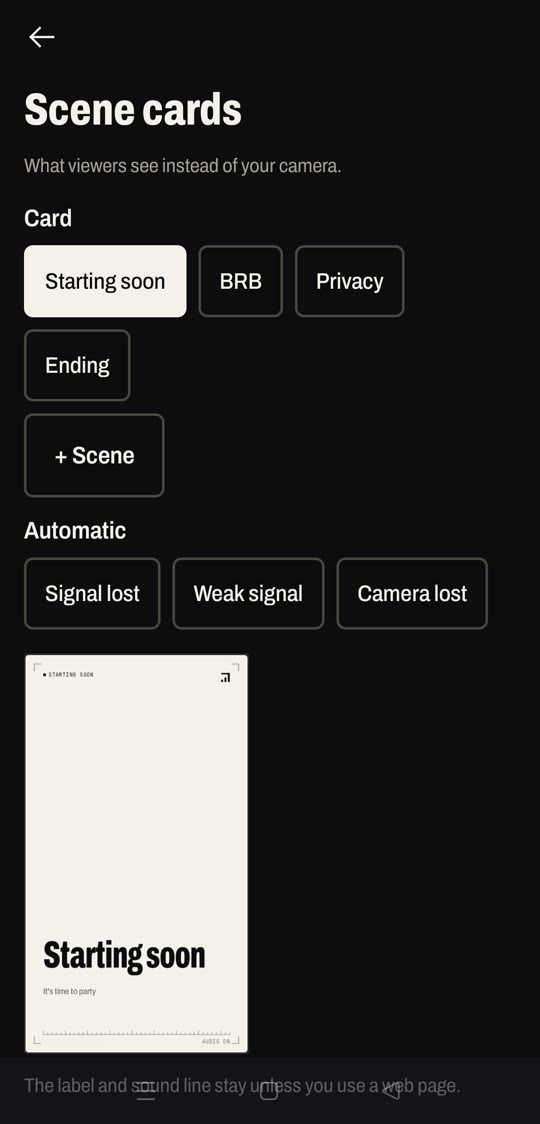
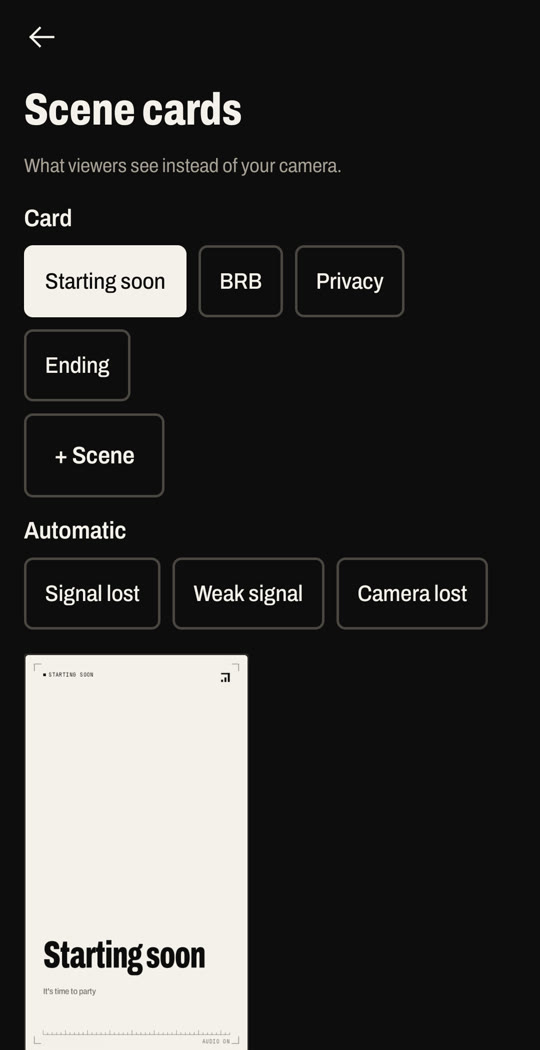
Feature list in three groups, with the screenshots beside their rows
Rows are grouped (before you go live, on stream, with your BRB server)
under plain names: "Your mic, your level" is Microphone, "Your mods" is
Mod commands and remote, and the Pocket's Labs chip is in its name. The
TTS copy is one row instead of two places, the ad-copy lines are
rewritten, the Microphone and Scene cards screenshots sit in their own
rows (cropped above the Android nav bar), and the dead-zone demo's
Signal lost thumbnail is big enough to read.

diff --git a/index.html b/index.html
@@ -146,23 +146,28 @@
 <section id="features" aria-labelledby="features-title">
   <div class="wrap">
     <h2 class="title" id="features-title">What's in the app</h2>
+    <h3 class="group">Before you go live</h3>
     <div class="rows">
-      <div class="row"><h3>Test streams</h3><p>Test is the default. It uses Twitch's bandwidth test, so nobody can watch a test on Twitch, not even you. A pre-flight check before you start, a preview before anything is sent, and a recap after: "We kept you live through 3 connection drops."</p></div>
-      <div class="row"><h3>Helper phones</h3><div><p>A spare phone in your pocket adds its mobile data. While you're live it joins your streaming phone's hotspot by itself, so there's nothing to type.</p><p class="tagline help">Helpers speak Moblin's Moblink protocol, so Moblin's helpers should work too. So far I've only tested it with Fullbars on both phones.</p></div></div>
-      <div class="row"><h3>DJI Pocket 3 <span class="tag dashed">Labs</span></h3><div><p>Fullbars starts the Pocket's stream over Bluetooth and takes it in over Wi‑Fi, so the Pocket works as a wireless camera on Android.</p><p class="tagline help">Unofficial: DJI doesn't support it, so the app asks you to confirm when you choose it in Settings › Camera. Other RTMP cameras work too.</p></div></div>
-      <div class="row"><h3>Scene cards</h3><div><p>Starting soon, BRB, Privacy and Ending, one tap away, up to four scenes of your own, plus automatic Signal lost, Weak signal and Camera lost cards. Your phone draws them, so they look the same with or without the server.</p><p class="tagline help">Make each one yours: your words in one of eight fonts, any colour, a picture, a still or GIF background, a layout and an accent. Add a countdown, a time-away counter, chat on the card, music under it, or a web page instead of the card.</p></div></div>
-      <div class="row"><h3>Alerts</h3><p>Follows, subs, gift subs, bits, raids and tips, drawn on stream with sound. Pick which ones show, where, how big and for how long, and give each kind your own words, picture, colours and sound. You feel each one land, and see who sent it.</p></div>
-      <div class="row"><h3>Viewer TTS</h3><p>A "Make me talk" channel points reward reads viewers' messages out on stream, and alerts can be said out loud too: "Thank you Sam for the 500 bits!" Spoken on your phone in one bright, dramatic voice, filtered for slurs and your own blocked words, and mods can <code>!skip</code>.</p></div>
-      <div class="row"><h3>Live captions</h3><p>What viewers hear you say, recognised on your phone and written on the stream. Nothing is sent anywhere, and they stop while you're muted. Android 13 or newer.</p></div>
-      <div class="row"><h3>Your mic, your level</h3><p>A live level meter, a sound check you can play back, a fader up to +30 dB, a limiter, and a switch for the phone's own auto level, which on some phones blows your voice out.</p></div>
-      <div class="row"><h3>Chat and overlays</h3><p>Twitch chat with emotes, on your screen and on stream. Chat read aloud into your earbuds. Text, image, or StreamElements and Streamlabs web overlays.</p></div>
-      <div class="row"><h3>Also stream to</h3><div><p>Your BRB server can send the same stream to Kick, YouTube or any RTMP server too, up to three at once. Your phone still uploads it only once.</p><p class="tagline help">Chat, alerts and mod commands stay on Twitch. Test streams never go anywhere else.</p></div></div>
-      <div class="row"><h3>Your mods</h3><p>Mod chat commands, and a web remote your mods can open to switch scenes for you, your own scenes included, or skip a TTS message.</p></div>
-      <div class="row"><h3>My OBS</h3><p>Streaming through OBS at home? The server can feed your OBS instead of Twitch, and NOALBS can switch scenes from its stats.</p></div>
+      <div class="row"><h4>Test streams</h4><p>Test is the default. It uses Twitch's bandwidth test, so the stream reaches Twitch but nobody can watch it. There's a pre-flight check before you start, a preview before anything is sent, and a recap after, which reads like: "We kept you live through 3 connection drops."</p></div>
+      <div class="row has-shot"><h4>Microphone</h4><p>A live level meter, a sound check you can play back, a fader up to +30 dB, a limiter, and a switch for the phone's own auto level, which on some phones blows your voice out.</p><figure class="row-shot"><img src="/img/settings-microphone.jpg" width="540" height="1050" loading="lazy" alt="Settings, Microphone: a live level meter, the mic level fader at plus 4 dB, the Phone's auto level switch and the sound check."><figcaption>Settings › Microphone</figcaption></figure></div>
     </div>
 
-    <div class="screens" style="margin-top:48px;grid-template-columns:minmax(0,320px)">
-      <figure><img src="/img/settings-microphone.jpg" width="540" height="1124" loading="lazy" alt="Settings, Microphone: a live level meter, the mic level fader at plus 4 dB, the Phone's auto level switch and the sound check."><figcaption>Settings › Microphone: check your level before you go live.</figcaption></figure>
+    <h3 class="group">On stream</h3>
+    <div class="rows">
+      <div class="row has-shot"><h4>Scene cards</h4><div><p>Starting soon, BRB, Privacy and Ending, one tap away, up to four scenes of your own, plus automatic Signal lost, Weak signal and Camera lost cards. Your phone draws them, so they look the same with or without the server.</p><p class="tagline help">Each card can have its own text in one of eight fonts, any colour, a picture, a still or GIF background, a layout and an accent. Add a countdown, a time-away counter, chat on the card, music under it, or a web page instead of the card.</p></div><figure class="row-shot"><img src="/img/settings-cards.jpg" width="540" height="1050" loading="lazy" alt="Settings, Scene cards: the card chooser in two groups, Card and Automatic, over a preview of the Starting soon card."><figcaption>Settings › Scene cards</figcaption></figure></div>
+      <div class="row"><h4>Alerts</h4><p>Follows, subs, gift subs, bits, raids and tips, drawn on stream with sound. Pick which ones show, where, how big and for how long, and give each kind your own words, picture, colours and sound. Your phone buzzes for each one, even with another app open, and the live screen shows who sent it.</p></div>
+      <div class="row"><h4>Viewer TTS</h4><div><p>A "Make me talk" channel points reward reads viewers' messages out on stream. Fullbars adds the reward to your channel and pauses it when you're not live, and points for anything that isn't said come back. Alerts can be said out loud too. For each kind you choose nothing, a thank-you ("Thank you Sam for the 500 bits!"), or the thank-you and their message, from a minimum you set.</p><p class="tagline help">It's all said on your phone in its one voice so far, a diva, and mixed into the stream without going through your mic. You hear it in your earbuds; on a Test stream without earbuds it plays from the speaker. The worst slurs, your own blocked words and your Twitch blocked terms are filtered out. Viewers' messages wait 3 seconds by default (you can pick 0, 5 or 10), so mods have time to type <code>!skip</code>, and you can skip from Scenes.</p></div></div>
+      <div class="row"><h4>Chat and overlays</h4><p>Twitch chat with emotes, on your screen and on stream. Chat read aloud into your earbuds. Text, image, or StreamElements and Streamlabs web overlays.</p></div>
+      <div class="row"><h4>Live captions</h4><p>What viewers hear you say, recognised on your phone and written on the stream. Nothing is sent anywhere, and they stop while you're muted. Android 13 or newer.</p></div>
+      <div class="row"><h4>DJI Pocket 3 (unofficial, in Labs)</h4><div><p>Fullbars starts the Pocket's stream over Bluetooth and takes it in over Wi‑Fi, so the Pocket works as a wireless camera on Android.</p><p class="tagline help">DJI doesn't support it, so the app asks you to confirm when you choose it in Settings › Camera. Other RTMP cameras work too.</p></div></div>
+      <div class="row"><h4>Mod commands and remote</h4><p>Mod chat commands, and a web remote your mods can open to switch scenes for you, your own scenes included, or skip a TTS message.</p></div>
+    </div>
+
+    <h3 class="group">With your BRB server</h3>
+    <div class="rows">
+      <div class="row"><h4>Helper phones</h4><div><p>A spare phone in your pocket adds its mobile data. While you're live it joins your streaming phone's hotspot by itself, so there's nothing to type.</p><p class="tagline help">Helpers speak Moblin's Moblink protocol, so Moblin's helpers should work too. So far I've only tested it with Fullbars on both phones.</p></div></div>
+      <div class="row"><h4>Also stream to</h4><div><p>Your BRB server can send the same stream to Kick, YouTube or any RTMP server too, up to three at once. Your phone still uploads it only once.</p><p class="tagline help">Chat, alerts and mod commands stay on Twitch. Test streams never go anywhere else.</p></div></div>
+      <div class="row"><h4>My OBS</h4><p>Streaming through OBS at home? The server can feed your OBS instead of Twitch, and NOALBS can switch scenes from its stats.</p></div>
     </div>
   </div>
 </section>

diff --git a/styles.css b/styles.css
@@ -153,14 +153,14 @@ section h2.title { margin-bottom: 20px; max-width: 24em; }
 .lane.out .val { width: auto; }
 .stub { position: relative; height: 20px; }
 .stub::before { content: ""; position: absolute; left: 12px; top: 0; bottom: 0; border-left: 1.5px solid var(--tick); }
-.node.twitch .viewers { margin-top: 10px; display: flex; align-items: center; gap: 12px; }
-.card-thumb { width: 64px; height: 36px; flex: none; border-radius: var(--rS); background: var(--bg); box-shadow: inset 0 0 0 1px var(--rule); position: relative; overflow: hidden; }
+.node.twitch .viewers { margin-top: 10px; display: flex; flex-direction: column; align-items: flex-start; gap: 8px; }
+.card-thumb { width: 160px; height: 90px; flex: none; border-radius: var(--rS); background: var(--bg); box-shadow: inset 0 0 0 1px var(--rule); position: relative; overflow: hidden; }
 .card-thumb .cam { position: absolute; inset: 0; background: var(--s4); }
 .card-thumb .cam::after { content: ""; position: absolute; left: 0; right: 0; bottom: 0; height: 40%; background: var(--s3); }
-.card-thumb .lost { display: none; position: absolute; left: 6px; bottom: 6px; font-stretch: 62.5%; font-weight: 800; font-size: 11px; line-height: 1; color: var(--text); }
-.card-thumb .lostbars { display: none; position: absolute; left: 6px; top: 5px; }
-.card-thumb .lostbars .meter { height: 10px; gap: 1.5px; color: var(--text2); }
-.card-thumb .lostbars .meter i { width: 2.5px; }
+.card-thumb .lost { display: none; position: absolute; left: 10px; bottom: 10px; font-stretch: 62.5%; font-weight: 800; font-size: 18px; line-height: 1; color: var(--text); }
+.card-thumb .lostbars { display: none; position: absolute; left: 10px; top: 10px; }
+.card-thumb .lostbars .meter { height: 16px; gap: 2px; color: var(--text2); }
+.card-thumb .lostbars .meter i { width: 4px; }
 .route[data-state="down"] .card-thumb .cam { display: none; }
 .route[data-state="down"] .card-thumb .lost, .route[data-state="down"] .card-thumb .lostbars { display: block; }
 .timer { font-family: var(--mono); font-weight: 500; }
@@ -204,21 +204,20 @@ table.cmp { width: 100%; border-collapse: collapse; font-size: 16px; line-height
 /* Feature rows: label left, text right, a hairline between (ValueRow, no containers) */
 .rows { border-top: 1px solid var(--rule); }
 .row { display: grid; gap: 6px 32px; padding: 20px 0; border-bottom: 1px solid var(--rule); }
-.row h3 { font-stretch: 87.5%; font-weight: 600; font-size: 19px; line-height: 1.3; }
+.row h4 { margin: 0; font-stretch: 87.5%; font-weight: 600; font-size: 19px; line-height: 1.3; }
+h3.group { font-stretch: 75%; font-weight: 800; font-size: 22px; margin: 40px 0 12px; }
+h3.group:first-of-type { margin-top: 8px; }
+.row-shot { margin: 8px 0 0; max-width: 240px; }
+.row-shot img { border-radius: var(--rM); outline: 1px solid var(--rule-strong); }
+.row-shot figcaption { margin-top: 8px; font-size: 13px; color: var(--text2); }
 .row p { margin: 0; color: var(--text2); }
 .row .tagline { margin-top: 8px; }
-@media (min-width: 720px) { .row { grid-template-columns: 260px minmax(0, 1fr); } }
+@media (min-width: 720px) { .row { grid-template-columns: 220px minmax(0, 1fr); } .row-shot { grid-column: 2; } }
+@media (min-width: 1000px) { .row.has-shot { grid-template-columns: 220px minmax(0, 1fr) 240px; } .row.has-shot .row-shot { grid-column: 3; margin: 0; } }
 .tag { display: inline-block; font-family: var(--mono); font-weight: 500; font-size: 11px; line-height: 1; letter-spacing: 0.1em; text-transform: uppercase; padding: 5px 7px; border-radius: var(--rS); border: 1px solid var(--tick); color: var(--text); vertical-align: 3px; margin-left: 8px; }
 .tag.dashed { border-style: dashed; }
 .tag.inv { background: var(--text); color: var(--bg); border-color: var(--text); }
 
-/* Screens */
-.screens { display: grid; grid-template-columns: repeat(2, minmax(0, 1fr)); gap: 24px 16px; margin-top: 8px; }
-.screens figure { margin: 0; }
-.screens img { border-radius: var(--rM); }
-.screens figcaption { margin-top: 10px; font-size: 14px; line-height: 1.4; color: var(--text2); }
-.screens { max-width: 680px; }
-@media (min-width: 720px) { .screens { gap: 32px; } }
 .nw { white-space: nowrap; }
 
 /* FAQ */
